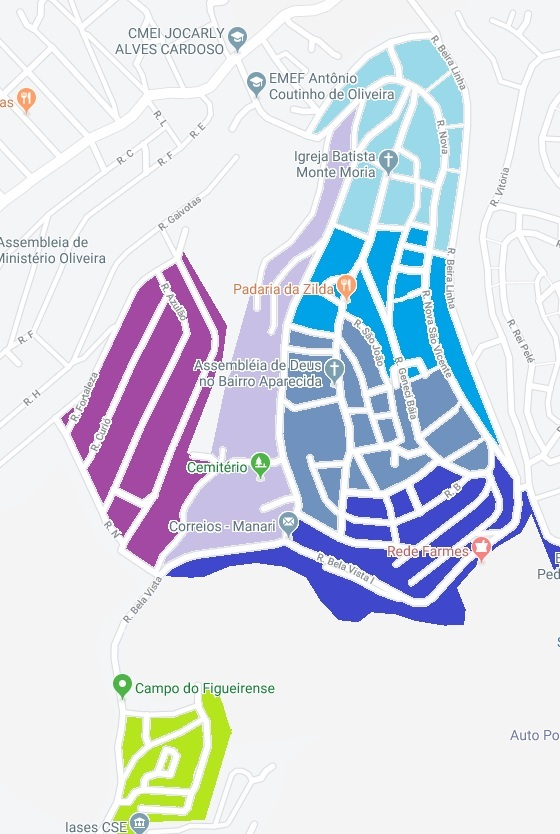
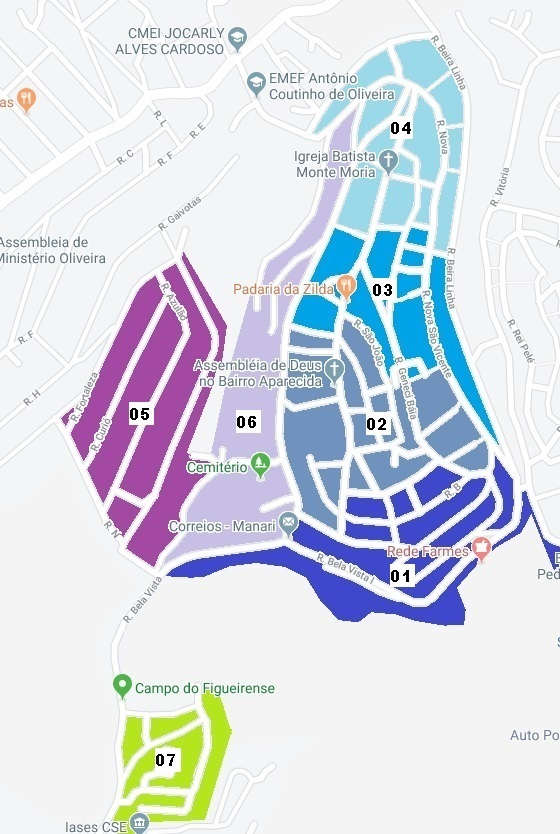
Mapas Atualizados, Criado iFrame de Relatório

diff --git a/vis_territorio.php b/vis_territorio.php
@@ -37,46 +37,45 @@ include_once 'includes/message.php';
 <img id="Mapa_Regio" class="hide" src="mapas/Porto_novo_1.jpg" alt="Mapa Regional" usemap="#Porto_novo_1">
 
 <map name="Porto_novo_1">
-    <area alt="24" title="24" href="#" onclick='edit2("24")' coords="199,28,106,142,129,150,116,166,104,246,85,254,92,328,86,373,89,429,70,467,98,498,111,485,159,503,164,546,195,545,203,534,207,468,222,438,232,397,244,386,259,386,269,402,300,342,333,308,340,273,326,265,302,293,322,238,265,100,240,69,218,42" shape="poly">
-    <area alt="23" title="23" href="#" onclick='edit2("23")' coords="206,587,292,583,358,589,424,600,424,582,381,572,382,558,368,552,375,529,385,508,373,470,327,465,271,405,256,389,244,388,234,399,227,428,210,465,206,525" shape="poly">
-    <area alt="12" title="12" href="#" onclick='edit2("12")' coords="251,593,313,593,313,653,313,706,320,727,343,749,359,784,359,796,316,801,294,810,256,807,241,793,218,786,192,765,187,743,196,719,217,691,235,667,251,649,269,638" shape="poly">
+    <area target="rel" alt="24" title="24" href="fazer_rel.php#24" onclick='edit2("24")' coords="199,28,106,142,129,150,116,166,104,246,85,254,92,328,86,373,89,429,70,467,98,498,111,485,159,503,164,546,195,545,203,534,207,468,222,438,232,397,244,386,259,386,269,402,300,342,333,308,340,273,326,265,302,293,322,238,265,100,240,69,218,42" shape="poly">
+    <area alt="23" title="23" href="fazer_rel.php#23" onclick='edit2("23")' coords="206,587,292,583,358,589,424,600,424,582,381,572,382,558,368,552,375,529,385,508,373,470,327,465,271,405,256,389,244,388,234,399,227,428,210,465,206,525" shape="poly">
+    <area alt="12" title="12" href="fazer_rel.php#12" onclick='edit2("12")' coords="251,593,313,593,313,653,313,706,320,727,343,749,359,784,359,796,316,801,294,810,256,807,241,793,218,786,192,765,187,743,196,719,217,691,235,667,251,649,269,638" shape="poly">
 </map>
 
 <map name="Porto_novo_2">
-    <area alt="8" title="8" href="#" onclick='edit2("8")' coords="37,126,43,278,180,427,153,461,169,504,220,475,230,500,269,474,482,492,485,451,455,447,468,420,435,378,454,356,459,316,422,286,399,282,372,286,339,66,278,46,171,92,89,104" shape="poly">
-    <area alt="13" title="13" href="#" onclick='edit2("13")' coords="430,285,464,316,460,355,441,377,469,417,545,338,628,313,674,383,680,456,656,618,655,697,685,763,701,749,730,739,712,644,704,601,736,608,760,588,814,610,937,640,961,604,952,567,850,496,835,457,843,425,903,351,986,274,938,200,870,198,865,104,806,104,796,182,710,196,549,144,513,232,481,269" shape="poly">
+    <area target="rel" alt="8" title="8" href="fazer_rel.php#8" onclick='edit2("8")' coords="37,126,43,278,180,427,153,461,169,504,220,475,230,500,269,474,482,492,485,451,455,447,468,420,435,378,454,356,459,316,422,286,399,282,372,286,339,66,278,46,171,92,89,104" shape="poly">
+    <area target="rel" alt="13" title="13" href="fazer_rel.php#13" onclick='edit2("13")' coords="430,285,464,316,460,355,441,377,469,417,545,338,628,313,674,383,680,456,656,618,655,697,685,763,701,749,730,739,712,644,704,601,736,608,760,588,814,610,937,640,961,604,952,567,850,496,835,457,843,425,903,351,986,274,938,200,870,198,865,104,806,104,796,182,710,196,549,144,513,232,481,269" shape="poly">
 </map>
 
 <map name="Bairro_aparecida">
-    <area alt="1" title="1" href="#" onclick='edit2("1")' coords="161,579,211,584,257,568,298,578,330,621,362,628,374,617,458,630,466,624,471,608,467,592,531,527,552,578,559,572,560,541,545,529,528,489,520,485,515,475,495,449,492,471,470,477,440,464,410,486,385,496,347,494,343,538,296,514,287,543,227,552,189,557,173,565" shape="poly">
-    <area alt="2" title="2" href="#" onclick='edit2("2")' coords="299,513,337,532,345,489,378,490,415,476,434,458,455,468,472,474,489,468,490,452,486,436,463,405,441,367,410,382,397,385,387,383,371,338,344,316,337,339,291,327,289,346,285,395,283,429,287,459,299,494" shape="poly">
-    <area alt="3" title="3" href="#" onclick='edit2("3")' coords="502,448,452,305,452,257,433,255,431,231,411,226,403,229,376,231,372,240,334,226,290,320,335,334,342,311,362,326,376,340,391,382,402,380,421,373,441,365,473,414,490,438" shape="poly">
-    <area alt="4" title="4" href="#" onclick='edit2("4")' coords="435,249,452,253,465,173,466,95,453,70,431,34,392,43,349,73,333,88,309,138,329,129,348,109,362,96,358,122,357,146,355,160,335,224,368,234,377,225,405,226,412,221,433,226" shape="poly">
-    <area alt="5" title="5" href="#" onclick='edit2("5")' coords="155,570,166,554,183,526,183,512,217,463,195,453,235,322,184,245,141,280,71,401,55,420,122,551" shape="poly">
-    <area alt="6" title="6" href="#" onclick='edit2("6")' coords="163,564,189,552,286,537,298,502,282,462,279,422,285,371,287,324,318,253,344,184,354,152,359,105,332,131,321,181,291,236,260,262,238,322,204,454,221,460,188,512,188,529" shape="poly">
-    <area alt="7" title="7" href="#" onclick='edit2("7")' coords="116,701,105,832,220,832,242,731,217,679" shape="poly">
+    <area target="rel" alt="1" title="1" href="fazer_rel.php#1" onclick='edit2("1")' coords="161,579,211,584,257,568,298,578,330,621,362,628,374,617,458,630,466,624,471,608,467,592,531,527,552,578,559,572,560,541,545,529,528,489,520,485,515,475,495,449,492,471,470,477,440,464,410,486,385,496,347,494,343,538,296,514,287,543,227,552,189,557,173,565" shape="poly">
+    <area target="rel" alt="2" title="2" href="fazer_rel.php#2" onclick='edit2("2")' coords="299,513,337,532,345,489,378,490,415,476,434,458,455,468,472,474,489,468,490,452,486,436,463,405,441,367,410,382,397,385,387,383,371,338,344,316,337,339,291,327,289,346,285,395,283,429,287,459,299,494" shape="poly">
+    <area target="rel" alt="3" title="3" href="fazer_rel.php#3" onclick='edit2("3")' coords="502,448,452,305,452,257,433,255,431,231,411,226,403,229,376,231,372,240,334,226,290,320,335,334,342,311,362,326,376,340,391,382,402,380,421,373,441,365,473,414,490,438" shape="poly">
+    <area target="rel" alt="4" title="4" href="fazer_rel.php#4" onclick='edit2("4")' coords="435,249,452,253,465,173,466,95,453,70,431,34,392,43,349,73,333,88,309,138,329,129,348,109,362,96,358,122,357,146,355,160,335,224,368,234,377,225,405,226,412,221,433,226" shape="poly">
+    <area target="rel" alt="5" title="5" href="fazer_rel.php#5" onclick='edit2("5")' coords="155,570,166,554,183,526,183,512,217,463,195,453,235,322,184,245,141,280,71,401,55,420,122,551" shape="poly">
+    <area target="rel" alt="6" title="6" href="fazer_rel.php#6" onclick='edit2("6")' coords="163,564,189,552,286,537,298,502,282,462,279,422,285,371,287,324,318,253,344,184,354,152,359,105,332,131,321,181,291,236,260,262,238,322,204,454,221,460,188,512,188,529" shape="poly">
+    <area target="rel" alt="7" title="7" href="fazer_rel.php#7" onclick='edit2("7")' coords="116,701,105,832,220,832,242,731,217,679" shape="poly">
 </map>
 
 <map name="Presidente_medici">
-    <area alt="9" title="9" href="#" onclick='edit2("9")' coords="148,356,120,396,97,413,97,446,124,512,166,530,192,557,215,569,280,565,318,557,349,539,357,522,366,517,378,491,398,414,413,365,415,316,394,327,378,380,363,350,339,314,327,308,318,273,295,286,279,293,252,303,201,332" shape="poly">
-    <area alt="10" title="10" href="#" onclick='edit2("10")' coords="95,407,73,339,69,261,44,201,39,158,32,90,61,99,78,86,104,85,191,117,259,129,263,140,295,160,310,192,313,218,313,261,278,285,253,294,203,326,169,342,144,352,117,393" shape="poly">
-    <area alt="11" title="11" href="#" onclick='edit2("11")' coords="283,67,297,57,344,59,376,51,475,37,426,120,428,141,444,161,453,188,452,216,453,258,431,289,412,311,391,325,378,370,366,345,345,312,333,304,321,270,316,206,301,160,266,135,288,103" shape="poly">
-    <area alt="15" title="15" href="#" onclick='edit2("15")' coords="149,526,148,561,188,665,232,767,259,798,265,777,284,745,331,672,360,633,371,605,371,519,359,522,355,539,332,556,317,563,295,568,218,574,189,562,167,534" shape="poly">
+    <area target="rel" alt="9" title="9" href="fazer_rel.php#9" onclick='edit2("9")' coords="148,356,120,396,97,413,97,446,124,512,166,530,192,557,215,569,280,565,318,557,349,539,357,522,366,517,378,491,398,414,413,365,415,316,394,327,378,380,363,350,339,314,327,308,318,273,295,286,279,293,252,303,201,332" shape="poly">
+    <area target="rel" alt="10" title="10" href="fazer_rel.php#10" onclick='edit2("10")' coords="95,407,73,339,69,261,44,201,39,158,32,90,61,99,78,86,104,85,191,117,259,129,263,140,295,160,310,192,313,218,313,261,278,285,253,294,203,326,169,342,144,352,117,393" shape="poly">
+    <area target="rel" alt="11" title="11" href="fazer_rel.php#11" onclick='edit2("11")' coords="283,67,297,57,344,59,376,51,475,37,426,120,428,141,444,161,453,188,452,216,453,258,431,289,412,311,391,325,378,370,366,345,345,312,333,304,321,270,316,206,301,160,266,135,288,103" shape="poly">
+    <area target="rel" alt="15" title="15" href="fazer_rel.php#15" onclick='edit2("15")' coords="149,526,148,561,188,665,232,767,259,798,265,777,284,745,331,672,360,633,371,605,371,519,359,522,355,539,332,556,317,563,295,568,218,574,189,562,167,534" shape="poly">
 </map>
 
 <map name="Morro_Sesi">
-    <area alt="14" title="14" href="#" onclick='edit2("14")' coords="33,510,98,691,110,695,140,789,212,768,203,739,205,710,238,690,235,632,307,594,295,546,269,554,274,534,289,528,285,498,244,487,187,490,148,482,106,475,77,469,59,507" shape="poly">
-    <area alt="16" title="16" href="#" onclick='edit2("16")' coords="153,478,186,487,229,484,249,484,288,498,292,518,322,517,346,499,354,478,352,427,275,355,281,305,284,271,240,272,230,326,223,329,207,319,167,318,176,350,174,376,175,390,186,402,192,418,202,423,210,450,182,452,157,448,140,434,131,441,137,455,152,460" shape="poly">
-    <area alt="17" title="17" href="#" onclick='edit2("17")' coords="81,466,150,481,150,462,132,452,128,443,137,429,153,441,186,450,206,446,198,423,190,420,184,403,171,390,169,372,173,350,162,317,183,315,209,317,225,326,232,305,232,269,220,261,188,269,148,277,140,282,127,334,126,361,122,405,95,437" shape="poly">
-    <area alt="18" title="18" href="#" onclick='edit2("18")' coords="143,275,219,258,237,266,283,269,294,248,321,227,325,205,315,186,321,162,329,139,357,80,320,85,301,52,241,58,211,23,158,107,170,138,172,178,151,213,149,241" shape="poly">
+    <area target="rel" alt="14" title="14" href="fazer_rel.php#14" onclick='edit2("14")' coords="33,510,98,691,110,695,140,789,212,768,203,739,205,710,238,690,235,632,307,594,295,546,269,554,274,534,289,528,285,498,244,487,187,490,148,482,106,475,77,469,59,507" shape="poly">
+    <area target="rel" alt="16" title="16" href="fazer_rel.php#16" onclick='edit2("16")' coords="153,478,186,487,229,484,249,484,288,498,292,518,322,517,346,499,354,478,352,427,275,355,281,305,284,271,240,272,230,326,223,329,207,319,167,318,176,350,174,376,175,390,186,402,192,418,202,423,210,450,182,452,157,448,140,434,131,441,137,455,152,460" shape="poly">
+    <area target="rel" alt="17" title="17" href="fazer_rel.php#17" onclick='edit2("17")' coords="81,466,150,481,150,462,132,452,128,443,137,429,153,441,186,450,206,446,198,423,190,420,184,403,171,390,169,372,173,350,162,317,183,315,209,317,225,326,232,305,232,269,220,261,188,269,148,277,140,282,127,334,126,361,122,405,95,437" shape="poly">
+    <area target="rel" alt="18" title="18" href="fazer_rel.php#18" onclick='edit2("18")' coords="143,275,219,258,237,266,283,269,294,248,321,227,325,205,315,186,321,162,329,139,357,80,320,85,301,52,241,58,211,23,158,107,170,138,172,178,151,213,149,241" shape="poly">
 </map>
 
 <map name="Del_porto">
-    <area alt="19" title="19" href="#" onclick='edit2("19")' coords="353,427,409,447,504,403,515,369,538,294,498,289,444,266,401,251" shape="poly">
-    <area alt="20" title="20" href="#" onclick='edit2("20")' coords="290,566,358,474,401,450,348,429,378,326,396,251,257,226,188,223,190,416,204,455,239,486,255,540,272,559" shape="poly">
-    <area alt="21" title="21" href="#" onclick='edit2("21")' coords="333,514,358,480,482,422,507,408,546,295,630,293,636,314,678,318,728,399,818,378,838,400,839,440,798,466,731,470,712,509,628,544,614,512,571,481,539,502,565,517,585,551,536,577,538,627,414,633,372,584,348,542" shape="poly">
-    <area alt="22" title="22" href="#" onclick='edit2("22")' coords="387,244,409,251,457,269,498,287,544,290,631,290,639,313,677,313,758,237,827,255,846,214,831,161,830,103,493,75,453,90,459,185,394,227" shape="poly">
-
+    <area target="rel" alt="19" title="19" href="fazer_rel.php#19" onclick='edit2("19")' coords="353,427,409,447,504,403,515,369,538,294,498,289,444,266,401,251" shape="poly">
+    <area target="rel" alt="20" title="20" href="fazer_rel.php#20" onclick='edit2("20")' coords="290,566,358,474,401,450,348,429,378,326,396,251,257,226,188,223,190,416,204,455,239,486,255,540,272,559" shape="poly">
+    <area target="rel" alt="21" title="21" href="fazer_rel.php#21" onclick='edit2("21")' coords="333,514,358,480,482,422,507,408,546,295,630,293,636,314,678,318,728,399,818,378,838,400,839,440,798,466,731,470,712,509,628,544,614,512,571,481,539,502,565,517,585,551,536,577,538,627,414,633,372,584,348,542" shape="poly">
+    <area target="rel" alt="22" title="22" href="fazer_rel.php#22" onclick='edit2("22")' coords="387,244,409,251,457,269,498,287,544,290,631,290,639,313,677,313,758,237,827,255,846,214,831,161,830,103,493,75,453,90,459,185,394,227" shape="poly">
 </map>
 
 <img id="Mapa_Local" class="hide" src="mapas/1.jpg" alt="Mapa Local">
@@ -96,6 +95,7 @@ function edit(param) {
 function edit2(param) {
     document.getElementById("Mapa_Local").setAttribute("class", "");
     document.getElementById("Mapa_Local").setAttribute("src", "mapas/" + param + ".jpg");
+    document.getElementById("frame-rel").setAttribute("class", "");
     document.getElementById("Mapa_Regio").setAttribute("class", "hide");
     document.getElementById("voltar1").setAttribute("class", "hide");
     document.getElementById("voltar2").setAttribute("class", "btn-small red darken-2");
@@ -110,6 +110,7 @@ function volt1() {
 function volt2() {
     document.getElementById("Mapa_Regio").setAttribute("class", "");
     document.getElementById("Mapa_Local").setAttribute("class", "hide");
+    document.getElementById("frame-rel").setAttribute("class", "hide");
     document.getElementById("voltar1").setAttribute("class", "btn-small red darken-2");
     document.getElementById("voltar2").setAttribute("class", "hide");
 }
@@ -117,7 +118,7 @@ function volt2() {
 
 <div class="iframes">
     <iframe scrolling="no" src="sugestao_terr.php" name="janela" id="frame-sug"></iframe>
-    <iframe scrolling="no" src="fazer_rel.php" name="janela" id="frame-rel"></iframe>
+    <iframe scrolling="no" src="fazer_rel.php" name="rel" id="frame-rel" class="hide"></iframe>
 </div>
 
 <?php

diff --git a/fazer_rel.php b/fazer_rel.php
@@ -1,20 +1,153 @@
 <!DOCTYPE html>
-<html lang="pt-br">
+<html>
     <head>
         <meta charset="utf-8">
-        <!--Import materialize.css-->
-		<link rel="stylesheet" href="https://cdnjs.cloudflare.com/ajax/libs/materialize/1.0.0-beta/css/materialize.min.css">
+
+        <!-- Compiled and minified CSS and Import Google Icon Font -->
+        <link rel="stylesheet" href="https://cdnjs.cloudflare.com/ajax/libs/materialize/1.0.0/css/materialize.min.css">
+        <link href="https://fonts.googleapis.com/icon?family=Material+Icons" rel="stylesheet">
+	
+		<!-- Compiled and minified JavaScript -->
+		<script type = "text/javascript" src="https://code.jquery.com/jquery-3.2.1.min.js"></script>
+        <script src="https://cdnjs.cloudflare.com/ajax/libs/materialize/1.0.0-alpha.4/js/materialize.min.js"></script>
+
+		<!--Let browser know website is optimized for mobile-->
+		<meta name="viewport" content="width=device-width, initial-scale=1.0"/>
+
         <style>
-            div.content-frame{
-            padding-top: 30px;
-            padding-bottom: 10px;
-            padding-left: 20px;
-        }
+            article{
+                height: 700px;
+            }
+
         </style>
     </head>
-    <body>
-        <div class="content-frame">
-            <h4><b>Relatório:</b></h4>
+
+    <body> 
+        <div class="container">
+            <article id="1">
+                <ul class="collapsible">
+                    <li>
+                        <div class="collapsible-header">TEXTO 1</div>
+                        <div class="collapsible-body"><span>CONTEUDO 1</span></div>
+                    </li>
+                    <li>
+                        <div class="collapsible-header">TEXTO 2</div>
+                        <div class="collapsible-body"><span>CONTEUDO 2</span></div>
+                    </li>
+                    <li>
+                        <div class="collapsible-header">TEXTO 3</div>
+                        <div class="collapsible-body"><span>CONTEUDO 3</span></div>
+                    </li>
+                </ul>
+            </article>
+        
+            <article id="2">
+                <ul class="collapsible">
+                    <li>
+                        <div class="collapsible-header">TEXTO 4</div>
+                        <div class="collapsible-body"><span>CONTEUDO 4</span></div>
+                    </li>
+                    <li>
+                        <div class="collapsible-header">TEXTO 5</div>
+                        <div class="collapsible-body"><span>CONTEUDO 5</span></div>
+                    </li>
+                    <li>
+                        <div class="collapsible-header">TEXTO 6</div>
+                        <div class="collapsible-body"><span>CONTEUDO 6</span></div>
+                    </li>
+                </ul>
+            </article>
+
+            <article id="3">
+                <ul class="collapsible">
+                    <li>
+                        <div class="collapsible-header">TEXTO 7</div>
+                        <div class="collapsible-body"><span>CONTEUDO 7</span></div>
+                    </li>
+                    <li>
+                        <div class="collapsible-header">TEXTO 8</div>
+                        <div class="collapsible-body"><span>CONTEUDO 8</span></div>
+                    </li>
+                    <li>
+                        <div class="collapsible-header">TEXTO 9</div>
+                        <div class="collapsible-body"><span>CONTEUDO 9</span></div>
+                    </li>
+                </ul>
+            </article>
+
+            <article id="4">
+                <ul class="collapsible">
+                    <li>
+                        <div class="collapsible-header">TEXTO 10</div>
+                        <div class="collapsible-body"><span>CONTEUDO 10</span></div>
+                    </li>
+                    <li>
+                        <div class="collapsible-header">TEXTO 11</div>
+                        <div class="collapsible-body"><span>CONTEUDO 11</span></div>
+                    </li>
+                    <li>
+                        <div class="collapsible-header">TEXTO 12</div>
+                        <div class="collapsible-body"><span>CONTEUDO 12</span></div>
+                    </li>
+                </ul>
+            </article>
+
+            <article id="5">
+                <ul class="collapsible">
+                    <li>
+                        <div class="collapsible-header">TEXTO 13</div>
+                        <div class="collapsible-body"><span>CONTEUDO 13</span></div>
+                    </li>
+                    <li>
+                        <div class="collapsible-header">TEXTO 14</div>
+                        <div class="collapsible-body"><span>CONTEUDO 14</span></div>
+                    </li>
+                    <li>
+                        <div class="collapsible-header">TEXTO 15</div>
+                        <div class="collapsible-body"><span>CONTEUDO 15</span></div>
+                    </li>
+                </ul>
+            </article>
+
+            <article id="6">
+                <ul class="collapsible">
+                    <li>
+                        <div class="collapsible-header">TEXTO 16</div>
+                        <div class="collapsible-body"><span>CONTEUDO 16</span></div>
+                    </li>
+                    <li>
+                        <div class="collapsible-header">TEXTO 17</div>
+                        <div class="collapsible-body"><span>CONTEUDO 17</span></div>
+                    </li>
+                    <li>
+                        <div class="collapsible-header">TEXTO 18</div>
+                        <div class="collapsible-body"><span>CONTEUDO 18</span></div>
+                    </li>
+                </ul>
+            </article>
+
+            <article id="7">
+                <ul class="collapsible">
+                    <li>
+                        <div class="collapsible-header">TEXTO 19</div>
+                        <div class="collapsible-body"><span>CONTEUDO 19</span></div>
+                    </li>
+                    <li>
+                        <div class="collapsible-header">TEXTO 20</div>
+                        <div class="collapsible-body"><span>CONTEUDO 20</span></div>
+                    </li>
+                    <li>
+                        <div class="collapsible-header">TEXTO 21</div>
+                        <div class="collapsible-body"><span>CONTEUDO 21</span></div>
+                    </li>
+                </ul>
+            </article>
         </div>
-    </body>
+
+        <script>
+        $(document).ready(function(){
+            $('.collapsible').collapsible({accordion: false});
+        });
+        </script>
+    </body>   
 </html>

diff --git a/sugestao_terr.php b/sugestao_terr.php
@@ -2,19 +2,22 @@
 <html lang="pt-br">
     <head>
         <meta charset="utf-8">
-        <!--Import materialize.css-->
-		<link rel="stylesheet" href="https://cdnjs.cloudflare.com/ajax/libs/materialize/1.0.0-beta/css/materialize.min.css">
-        <style>
-            div.content-frame{
-            padding-top: 30px;
-            padding-bottom: 10px;
-            padding-left: 20px;
-        }
-        </style>
+
+        <!-- Compiled and minified CSS and Import Google Icon Font -->
+        <link rel="stylesheet" href="https://cdnjs.cloudflare.com/ajax/libs/materialize/1.0.0/css/materialize.min.css">
+        <link href="https://fonts.googleapis.com/icon?family=Material+Icons" rel="stylesheet">
+	
+		<!-- Compiled and minified JavaScript -->
+		<script type = "text/javascript" src="https://code.jquery.com/jquery-3.2.1.min.js"></script>
+        <script src="https://cdnjs.cloudflare.com/ajax/libs/materialize/1.0.0-alpha.4/js/materialize.min.js"></script>
+
+		<!--Let browser know website is optimized for mobile-->
+		<meta name="viewport" content="width=device-width, initial-scale=1.0"/>
     </head>
+    
     <body>
-        <div class="content-frame">
-            <h4><b>Sugestão de Território:</b></h4>
-        </div>
+        <h4><b>Sugestão de Território:</b></h4>
+        <h5><b>Muito Apoio:</b></h5>
+        <h5><b>Pouco Apoio:</b></h5>
     </body>
 </html>

diff --git a/includes/header.php b/includes/header.php
@@ -4,11 +4,15 @@
 		<meta charset="utf-8">
 		<title> Maps Assistant</title>
 		<link rel="stylesheet" href="_css/style.css"/>
-		<!--Import Google Icon Font-->
-		<link href="https://fonts.googleapis.com/icon?family=Material+Icons" rel="stylesheet">
-		<!--Import materialize.css-->
-		<link rel="stylesheet" href="https://cdnjs.cloudflare.com/ajax/libs/materialize/1.0.0-beta/css/materialize.min.css">
-		<script src="https://ajax.googleapis.com/ajax/libs/jquery/3.5.1/jquery.min.js"></script>
+		
+		<!-- Compiled and minified CSS and Import Google Icon Font -->
+        <link rel="stylesheet" href="https://cdnjs.cloudflare.com/ajax/libs/materialize/1.0.0/css/materialize.min.css">
+        <link href="https://fonts.googleapis.com/icon?family=Material+Icons" rel="stylesheet">
+	
+		<!-- Compiled and minified JavaScript -->
+		<script type = "text/javascript" src="https://code.jquery.com/jquery-3.2.1.min.js"></script>
+        <script src="https://cdnjs.cloudflare.com/ajax/libs/materialize/1.0.0-alpha.4/js/materialize.min.js"></script>
+
 		<!--Let browser know website is optimized for mobile-->
 		<meta name="viewport" content="width=device-width, initial-scale=1.0"/>
     </head>

diff --git a/includes/footer.php b/includes/footer.php
@@ -1,9 +1,6 @@
-</div>
-		<!--JavaScript at end of body for optimized loading-->
-		<script src="https://cdnjs.cloudflare.com/ajax/libs/materialize/1.0.0-beta/js/materialize.min.js"></script>
-
+		</div>
 		<script>
 			M.AutoInit();
-      	</script>
+		</script>
     </body>
 </html>
